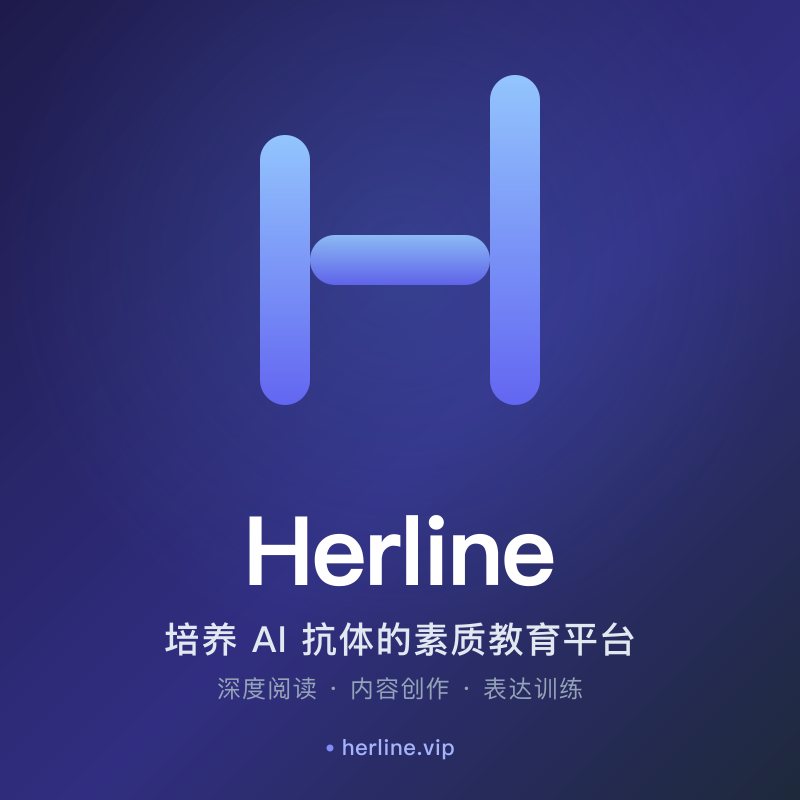
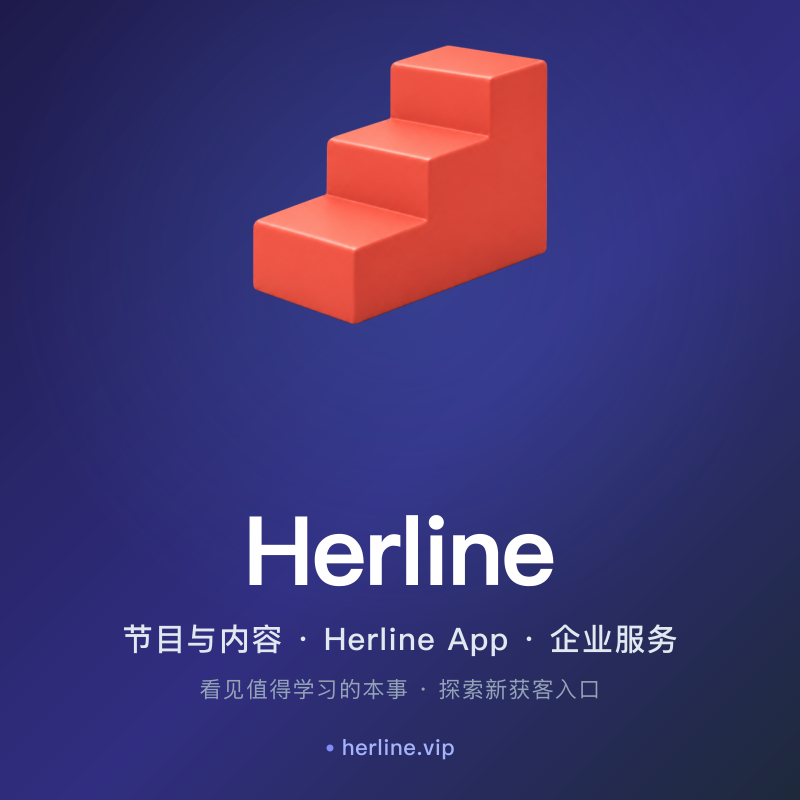
docs: clarify Herline audiences and participation scope

Changed region(s): [[0.3125, 0.0312, 0.6875, 0.5312], [0.1562, 0.7812, 0.8438, 0.875]]

diff --git a/README.md b/README.md
@@ -5,8 +5,8 @@
 <h1 align="center">Herline · 赫能</h1>
 
 <p align="center">
-  <strong>Give everyone the power to create lasting influence.</strong><br>
-  Infrastructure for customer-acquisition entry points and cost management.
+  <strong>Shows and content · Herline App · services for organizations</strong><br>
+  Different paths for people learning from content and businesses seeking new customer entry points.
 </p>
 
 <p align="center">
@@ -17,6 +17,8 @@
 
 <p align="center">
   <a href="#what-herline-is">What</a> ·
+  <a href="#for-people">For people</a> ·
+  <a href="#for-organizations">For organizations</a> ·
   <a href="#public-product-experience">Public product experience</a> ·
   <a href="#who-it-serves">Audience</a> ·
   <a href="#availability-and-evidence">Availability</a> ·
@@ -28,15 +30,27 @@
 
 ## What Herline is
 
-Herline is an **acquisition-entry and cost-management infrastructure platform**. It brings together content and IP, user-facing products, learning and service pathways, and the systems that connect them. Its mission is to **give everyone the power to create lasting influence**.
+Herline is a broader project connecting shows and other content, learning and participation paths, Herline App, and services for organizations. **Herline App is one digital product within that project**, not the name for everything Herline does.
 
-Content and IP can create trusted points of entry; Herline's products help people continue from attention into relevant learning, participation, or other approved next steps. The platform is designed to make that journey more coherent and more accountable over time. This is a direction, not a claim of a particular acquisition cost, conversion result, or commercial outcome.
+The same content can matter to different readers for different reasons. A person may discover a skill worth learning; an organization may explore a new way for people to discover it. The two paths have different aims and must be assessed on their own terms.
 
-For brands and approved collaborators, Herline may serve as a partner for obtaining high-intent users at lower cost and completing conversion. That is a **brand-service role**, not the consumer-homepage tagline, and it does not promise a price, volume, or outcome. Specific services, rights, delivery, and measurement are confirmed separately.
+<a id="for-people"></a>
+
+## For people following the content
+
+Show-related stories can make a person's judgment, craft, or way of solving a problem visible. You can notice what is worth learning, ask what you would do in the same situation, and try to **learn and apply a specific skill**. Learning a skill means understanding and practising a method; it does not mean copying another person's identity, connections, or outcome.
+
+Participation should fit the content. Aesthetic content may invite a question or an original work. 《闯出点名堂》 focuses on entrepreneurship, work, and decisions in real tasks: a viewer might notice a problem or a person's strength and consider a possible response. These examples describe the direction for show-specific participation. They do **not** announce that submission, discussion, or practice features are available in Herline App today. Use the live product for current actions.
+
+<a id="for-organizations"></a>
+
+## For organizations
+
+Herline's service direction is to help organizations develop new customer-acquisition entry points and manage or reduce acquisition costs. Whether a particular engagement achieves that aim needs evidence from actual business results. The scope, deliverables, and way to assess an engagement are agreed separately; no cost improvement or conversion outcome is guaranteed here.
 
 ## Public product experience
 
-Herline App is the owned digital product within the broader platform. Its public AI workspace supports **judgment and expression**: AI accelerates execution while people remain responsible for direction, evidence, and the final result.
+Herline App is Herline's digital product. Its public AI workspace supports **judgment and expression**: AI can help with a task while people remain responsible for direction, evidence, and the final result. It is one possible way to continue from content into learning or work; show-specific participation depends on what the live product actually offers.
 
 Herline App currently brings together practical loops:
 
@@ -45,9 +59,7 @@ Herline App currently brings together practical loops:
 - **Distribution** — adapt one approved idea for different channels and learn from real response.
 - **Voice rehearsal** — practise high-stakes conversations and presentations before facing the real situation.
 
-Herline serves youth learners and their guardians, adult professionals, youth educators, and invited operators through separate, permission-aware product paths. Availability varies by account, role, region, and the current product page.
-
-The phrase **“AI resistance” (AI 抗体)** describes the product thesis: as AI absorbs more standardized work, judgment, expression, trust, and responsibility become more valuable.
+Within Herline App, youth learners and their guardians, adult professionals, youth educators, and invited operators use separate, permission-aware product paths. Availability varies by account, role, region, and the current product page.
 
 🌐 The live product and current plan details are at [herline.vip](https://herline.vip).
 
@@ -75,9 +87,11 @@ See [Public product architecture](docs/architecture.md) and the [Glossary](docs/
 
 | Audience | Typical need | Herline path |
 | --- | --- | --- |
+| People following a show or related content | Notice a skill, question a decision, or try an idea themselves | Published content; any participation actions shown in the live product |
 | Youth learners and guardians | Build judgment, expression, and visible work over time | Assessment, Atlas, Library, Courses, Assistant |
 | Adult professionals | Turn experience into clearer decisions, presentations, courses, and market-facing work | Library, Studio, Prep, Assistant, distribution |
 | Youth educators | Prepare learning material and improve delivery without giving up professional judgment | Pro creation, research, and delivery tools |
+| Organizations and brands | Explore new customer entry points and manage acquisition costs | An engagement defined and assessed for the specific organization |
 | Invited operators and partners | Coordinate approved programs and distribute approved work | Role-scoped workspaces and operating tools |
 
 Community identity, partnership, or program participation does not automatically grant access to another user’s data or to restricted product capabilities.
@@ -96,7 +110,7 @@ Product availability varies by account, role, region, and rollout. Use the live 
 - **Youth and voice data receive additional controls.** Guardian authorization and dedicated voice notices apply where required.
 - **Current policy beats this summary.** See the live [Privacy Policy](https://herline.vip/legal/privacy), [Terms](https://herline.vip/legal/terms), and AI-content policy.
 
-This repository contains public documentation, examples, and community resources. It does **not** contain Herline source code or disclose internal model routing, provider topology, feature flags, credentials, customer data, operating runbooks, unit economics, or unreleased product plans. See the [Public documentation policy](docs/public-documentation-policy.md). Product or program purchase does not by itself grant access to restricted capabilities or establish a media, program, or distribution outcome; applicable rights and delivery are confirmed separately.
+This repository contains public documentation and examples; Herline's product source code is proprietary. See the [Public documentation policy](docs/public-documentation-policy.md). Product and program rights, delivery, and any media participation are confirmed separately.
 
 ## Repository scope
 

diff --git a/README.zh-CN.md b/README.zh-CN.md
@@ -5,8 +5,8 @@
 <h1 align="center">Herline · 赫能</h1>
 
 <p align="center">
-  <strong>让每个人都拥有影响力。</strong><br>
-  面向获客入口与成本管理的基础设施平台。
+  <strong>节目与内容 · Herline App · 企业合作服务</strong><br>
+  面向个人的学习参与，与面向企业的新获客入口探索，各有其价值。
 </p>
 
 <p align="center">
@@ -17,6 +17,8 @@
 
 <p align="center">
   <a href="#what-herline-is">产品</a> ·
+  <a href="#for-people">面向个人</a> ·
+  <a href="#for-organizations">面向企业</a> ·
   <a href="#public-product-experience">公开产品体验</a> ·
   <a href="#who-it-serves">服务对象</a> ·
   <a href="#availability-and-evidence">可用范围</a> ·
@@ -30,17 +32,29 @@
 
 ## Herline 是什么
 
-Herline 是一个**获客入口与成本管理的基础设施平台**。它连接内容与 IP、面向用户的产品、课程与服务路径，以及让这些部分能够协同的系统。使命是**让每个人都拥有影响力**。
+Herline 是连接节目与其他内容、学习和参与路径、Herline App，以及企业服务的整体项目。**Herline App 是其中一款自有数字产品**，不等于 Herline 的全部。
 
-内容与 IP 可以创造可信的进入点；Herline 的产品帮助用户从关注继续走向相关的学习、参与或其他经确认的下一步。平台希望让这段旅程长期更连贯、也更可被理解和核验。这是一项方向，不是对特定获客成本、转化结果或商业成果的承诺。
+同一份内容对不同读者有不同价值：个人可能从中看见值得学习的本事，企业则可能探索新的被发现方式。两端的目标不同，也应分别验证。
 
-面向品牌和经确认的合作方，Herline 可以承担“以更低成本获取高意向用户并完成转化”的服务角色。这是**品牌服务口径**，不是 C 端首页 tagline，也不承诺价格、规模或结果；具体服务、权益、交付与衡量方式另行确认。
+<a id="for-people"></a>
+
+## 面向关注内容的人
+
+节目相关内容呈现人物的判断、本事和解决问题的方法。你可以从中看见自己想学什么，想一想如果身处同样情境会怎么做，并尝试**学习、运用一项具体能力**。这里的“复制能力”是理解并练习可迁移的方法，不是复制他人的身份、资源、人脉或结果。
+
+参与方式应由内容决定。审美内容适合用提问、原创作品表达参与；《闯出点名堂》围绕创业、事业与真实任务中的判断，可以从发现问题或人物长处出发，讨论可能的做法。这些是按节目设计参与方式的方向，**不表示**作品提交、讨论或练习功能目前已在 Herline App 开放；当前可做的操作以实时产品页面为准。
+
+<a id="for-organizations"></a>
+
+## 面向企业
+
+Herline 的服务方向是帮助企业建立新的获客入口，并管理、降低获客成本。某项合作是否达到目标，需要用实际业务结果验证。合作范围、交付和衡量方式须逐项确认；这里不承诺成本改善或转化结果。
 
 <a id="public-product-experience"></a>
 
 ## 公开产品体验
 
-Herline App 是更大平台中的自有数字产品。其公开 AI 工作台支持**判断力与表达力**：AI 加速执行，人负责确定方向、核验证据并对最终结果承担责任。
+Herline App 是 Herline 的数字产品。其公开 AI 工作台支持**判断力与表达力**：AI 可以协助完成任务，人负责确定方向、核验证据并对最终结果承担责任。它是从内容继续走向学习或实践的一种产品路径；分节目参与能力以实时产品实际开放情况为准。
 
 Herline App 当前提供多条实用链路：
 
@@ -49,9 +63,7 @@ Herline App 当前提供多条实用链路：
 - **分发**：把一份经确认的观点适配到不同渠道，并从真实反馈中继续修正。
 - **语音排练**：在真实谈判、路演、面试或重要对话前反复练习。
 
-Herline 面向青少学员及监护人、成人专业人士、青少老师，以及经邀请的主理人与合作方；不同人群使用相互独立、受权限控制的产品路径。具体可用范围以账户、角色、地区和实时产品页面为准。
-
-「培养 AI 抗体」是 Herline 的产品主张：当 AI 接管更多标准化工作，判断取舍、清晰表达、建立信任和对结果负责会更有价值。
+在 Herline App 中，青少学员及监护人、成人专业人士、青少老师，以及经邀请的主理人与合作方使用相互独立、受权限控制的产品路径。具体可用范围以账户、角色、地区和实时产品页面为准。
 
 🌐 当前产品与实时方案见 [herline.vip](https://herline.vip)。
 
@@ -81,9 +93,11 @@ Herline 明确区分用户界面、AI Agent 与长任务工作流。一个名称
 
 | 服务对象 | 典型需求 | 主要路径 |
 | --- | --- | --- |
+| 关注节目或相关内容的人 | 看见值得学习的本事、追问某个判断、自己尝试一种做法 | 已公开内容；实时产品已开放的参与操作 |
 | 青少学员与监护人 | 长期形成判断力、表达力和可见作品 | 测评、找书、读书、课程、语音排练 |
 | 成人专业人士 | 把多年经验重新变成决定、表达、课程和市场成果 | 深读、创课、讲稿、排练与分发 |
 | 青少老师 | 借助 AI 备课和交付，同时保留专业判断 | Pro 创作、研究与交付工具 |
+| 企业与品牌 | 探索新获客入口并管理获客成本 | 按具体企业界定并验证的合作服务 |
 | 经邀请的主理人与合作方 | 在授权范围内运营项目和分发成果 | 角色专属工作区与经营工具 |
 
 社区身份、合作关系或项目参与不会自动产生数据访问权，也不会自动解锁受限产品能力。
@@ -104,7 +118,7 @@ Herline 明确区分用户界面、AI Agent 与长任务工作流。一个名称
 - **未成年人和语音数据有额外控制**：适用场景需监护人授权和专项语音说明。
 - **实时政策优先于本摘要**：以网站上的[隐私政策](https://herline.vip/legal/privacy)、[用户协议](https://herline.vip/legal/terms)和 AI 内容政策为准。
 
-本仓库只包含公开文档、示例和社区资源，不包含 Herline 源码，也不披露内部模型路由、供应商拓扑、feature flags、凭据、客户数据、运维手册、单位经济或未发布路线图。详见[公开文档边界](docs/public-documentation-policy.md)。购买产品或项目不自动获得受限能力，也不自动产生节目、媒体采用或传播结果；具体权益与交付另行确认。
+本仓库包含公开文档与示例；Herline 产品源码为专有软件。维护规则见[公开文档边界](docs/public-documentation-policy.md)。产品与项目权益、交付及任何媒体参与均另行确认。
 
 ## 仓库范围
 

diff --git a/docs/faq.md b/docs/faq.md
@@ -4,15 +4,19 @@
 
 ### What is Herline?
 
-Herline is an acquisition-entry and cost-management infrastructure platform. It connects content and IP, user-facing products, learning and service pathways, and the systems that support them. Its mission is to give everyone the power to create lasting influence. Herline App is the owned digital product within the broader platform. Its public AI workspace helps people strengthen judgment and expression while people retain responsibility for direction, evidence, and results.
+Herline is a broader project spanning shows and other content, learning and participation paths, Herline App, and services for organizations. Herline App is one digital product within that project. Its public AI workspace helps people work on judgment and expression while they retain responsibility for direction, evidence, and results.
 
-### What does the platform direction mean?
+### Why would an individual follow or participate?
 
-Content and IP can create trusted entry points, and Herline's products help users continue to relevant, approved next steps. It is a strategic direction, not a promise of a particular acquisition cost, conversion rate, or business outcome.
+Show-related content can reveal a person's craft, judgment, and way of dealing with a real problem. A viewer might ask questions, compare possible approaches, or try to learn and apply a skill. The right form of participation depends on the program: aesthetic content may invite a question or original work, while 《闯出点名堂》 focuses on entrepreneurship and decisions in real tasks. These are directions for participation, not a claim that every interaction is already available in Herline App.
 
 ### What does Herline offer brands and collaborators?
 
-Herline may support approved brand engagements around acquisition entry points and cost management. This describes a service role, not the consumer homepage tagline. Scope, measurement, pricing, and outcomes are confirmed separately for each engagement.
+Herline's service direction is to help organizations develop new customer-acquisition entry points and manage or reduce acquisition costs. Any improvement needs to be demonstrated through actual business results. Scope and deliverables are agreed for each engagement; this page does not guarantee a cost or conversion outcome.
+
+### Is Herline App the same as Herline?
+
+No. Herline App is the digital product. Shows, content, learning paths, and organizational services also belong to the broader Herline project. An activity described as a direction for a show is not automatically an App feature.
 
 ### Where can I find current program names and details?
 
@@ -20,7 +24,7 @@ Use the live [herline.vip](https://herline.vip) product pages for current progra
 
 ### Who is it for?
 
-Herline has separate paths for youth learners and guardians, adult professionals, youth educators, and invited operators or partners. The live product determines which path and capabilities an account can access.
+Herline addresses people following show-related content, youth learners and guardians, adult professionals, youth educators, organizations, and invited operators or partners. The live product determines which App path and capabilities an account can access.
 
 ### How is it different from a general chatbot?
 

diff --git a/docs/glossary.md b/docs/glossary.md
@@ -6,15 +6,27 @@ Public vocabulary for Herline. This glossary distinguishes product surfaces, Age
 
 ### Herline / 赫能
 
-An acquisition-entry and cost-management infrastructure platform that connects content and IP, user-facing products, learning and service pathways, and the systems that support them. Its mission is to give everyone the power to create lasting influence.
+The broader project connecting shows and other content, learning and participation paths, Herline App, and services for organizations. Herline App is one digital product within it.
+
+### Herline App
+
+Herline's digital product for user-facing learning and work. A show or organizational engagement is not automatically a feature of the App; access to App capabilities depends on the live product.
 
 ### Content and IP entry
 
-Content and IP can create trusted points of entry. They are not, by themselves, a guarantee of user intent, conversion, or commercial performance.
+Shows and related content can help people discover a skill, person, or question worth exploring. Their business value for an organization must be assessed separately against real outcomes.
 
 ### Brand-service role
 
-For brands and approved collaborators, Herline may serve as a partner for obtaining high-intent users at lower cost and completing conversion. This wording describes a service role; it is not the C-end homepage tagline and does not promise a price, volume, or result. Specific agreements define any service, rights, delivery, and measurement.
+Herline's direction for organizations is to help create new customer-acquisition entry points and manage or reduce acquisition costs. Results require evidence from the particular engagement; agreements define scope and delivery.
+
+### Learning and applying a skill / 复制能力
+
+For someone following content, this means understanding a useful method, trying it in a relevant situation, and learning from the attempt. It does not mean copying another person's identity, connections, or result. Viewing or saving content alone does not demonstrate that a skill has been learned.
+
+### Show-specific participation
+
+The form of participation should fit the content. An aesthetic topic might invite an original work or question; 《闯出点名堂》 raises entrepreneurship and real-task decisions. These are directions for participation, not a list of released App features.
 
 ### Professional collaborators / Agentic collaboration team
 
@@ -22,7 +34,7 @@ The professional collaboration team consists of human professional collaborators
 
 ### AI resistance / AI 抗体
 
-Herline’s public product thesis: when AI absorbs standardized work, human judgment, expression, trust, and responsibility become more valuable. It is a capability metaphor, not a medical claim.
+A historical learning metaphor about human judgment and expression alongside AI. It does not define Herline's current overall positioning or promise protection from AI.
 
 ### Code × media
 

diff --git a/docs/architecture.md b/docs/architecture.md
@@ -1,6 +1,8 @@
 # Public Product Architecture
 
-This document explains Herline's public product-platform layer. Herline's current platform direction is acquisition entry and cost management: content and IP can create entry points, while products and service paths help users continue to approved next steps. This document does not describe the portfolio, the commercial operating model, or a promised result. It intentionally does not reproduce the private codebase, service topology, deployment design, provider routing, schemas, prompts, credentials, feature flags, or operational runbooks.
+Herline connects shows and other content, learning and participation paths, Herline App, and services for organizations. For individuals, content can reveal a skill worth learning and applying; participation should fit each program. For organizations, Herline aims to develop new customer-acquisition entry points and manage acquisition costs, with results established through actual business evidence.
+
+This page maps the **public Herline App product layer** within that broader project. It explains user-facing responsibilities and permission boundaries, not the architecture of every show or organizational engagement. Show-specific submissions, discussions, and practice are a direction; this map does not represent them as released App features.
 
 ## Responsibility model
 
@@ -18,7 +20,7 @@ A surface is not automatically an Agent, and an Agent is not automatically a wor
 ## Current public product-platform map
 
 ```text
-Profile / intent
+User goal
       │
       ├─ Atlas + Helena ─────────────── reading and source planning
       │          │
@@ -67,18 +69,7 @@ The private product system distinguishes released capabilities from work that is
 
 Availability can still vary by role, account, region, and rollout. The live product is the final source for what a particular user can access.
 
-## What stays private
-
-- application source code and private repository paths;
-- model/provider routing and fallback topology;
-- prompts, evaluation sets, internal quality thresholds, and unpublished benchmarks;
-- database schemas, infrastructure addresses, credentials, environment variables, and security controls that would increase attack surface;
-- customer data, account allowlists, private program assets, and support records;
-- internal economics, fundraising material, partner negotiations, and unpublished roadmaps;
-- acquisition tactics, CAC assumptions, pricing, measurement methods, and private commercial arrangements;
-- code-complete or validation-pending work presented as released.
-
-See the [Public Documentation Policy](public-documentation-policy.md) for the maintenance contract.
+See the [Public Documentation Policy](public-documentation-policy.md) for this repository's publication criteria.
 
 ---
 

diff --git a/assets/README.md b/assets/README.md
@@ -6,8 +6,8 @@ Static assets referenced by documentation in this repository.
 
 - `logo.svg` — approved red staircase master mark, embedded as a transparent PNG in SVG for consistent display. Referenced in both README headers.
 - `architecture-diagram.svg` — Public product map for Herline's learning and expression loops.
-- `social-preview.svg` + `social-preview.png` — 1280x640 social media preview card for the GitHub repo. SVG is the source of truth; PNG is the rendered output for GitHub Settings → Social preview. The current PNG remains an older render and must be regenerated from the updated SVG before publishing.
-- `share-wechat.svg` + `share-wechat.png` — Square Chinese-language sharing card. SVG is the source of truth and uses the same approved red staircase master mark. The current PNG remains an older render and must be regenerated before publishing.
+- `social-preview.svg` + `social-preview.png` — 1280x640 social media preview card. The PNG has been rendered from the current SVG and visually checked. GitHub Settings → Social preview requires a separate upload; changing this file does not update that setting.
+- `share-wechat.svg` + `share-wechat.png` — 800x800 Chinese-language sharing card. The PNG has been rendered from the current SVG and visually checked. Both cards use the approved red staircase master mark.
 
 ## Optional — Future Additions
 

diff --git a/docs/two-axis-thesis.md b/docs/two-axis-thesis.md
@@ -2,7 +2,7 @@
 
 > Professional scarcity is migrating to two axes that compound on multi-year timescales — and AI cannot equalize either by sheer model improvement.
 
-This is a historical product thesis behind Herline's education and learning experience. It remains useful for understanding learning and expression loops, but it does not define Herline's current platform direction, commercial model, or public product availability.
+This is a historical product thesis behind selected Herline education and influence-oriented work. It remains useful for understanding learning and expression in those settings. It does not define Herline's current overall positioning, every show's purpose, or public product availability.
 
 > **Status note:** This document explains a strategic thesis, not current feature availability or measured market outcomes. For the current public product map and availability boundaries, see the [README](../README.md) and [public architecture](architecture.md).
 

diff --git a/docs/two-axis-thesis.zh-CN.md b/docs/two-axis-thesis.zh-CN.md
@@ -2,7 +2,7 @@
 
 > 专业稀缺性正在向两个轴迁移——这两个轴在多年时间尺度上复利,AI 模型升级本身无法把它们抹平。
 
-这是 Herline 教育与学习体验背后的一项历史产品判断。它仍用于解释学习与表达闭环，但不定义 Herline 当前的平台方向、商业模式或公开产品可用性。
+这是 Herline 部分教育与影响力专项工作背后的一项历史产品判断。它仍可解释这些场景中的学习与表达，但不定义 Herline 当前的整体定位、所有节目的价值或公开产品可用性。
 
 > **状态说明：**本文解释战略假设，不代表当前功能可用性，也不构成市场结果证明。当前公开产品地图和可用性边界以 [README](../README.zh-CN.md) 与[公开架构说明](architecture.md)为准。
 
